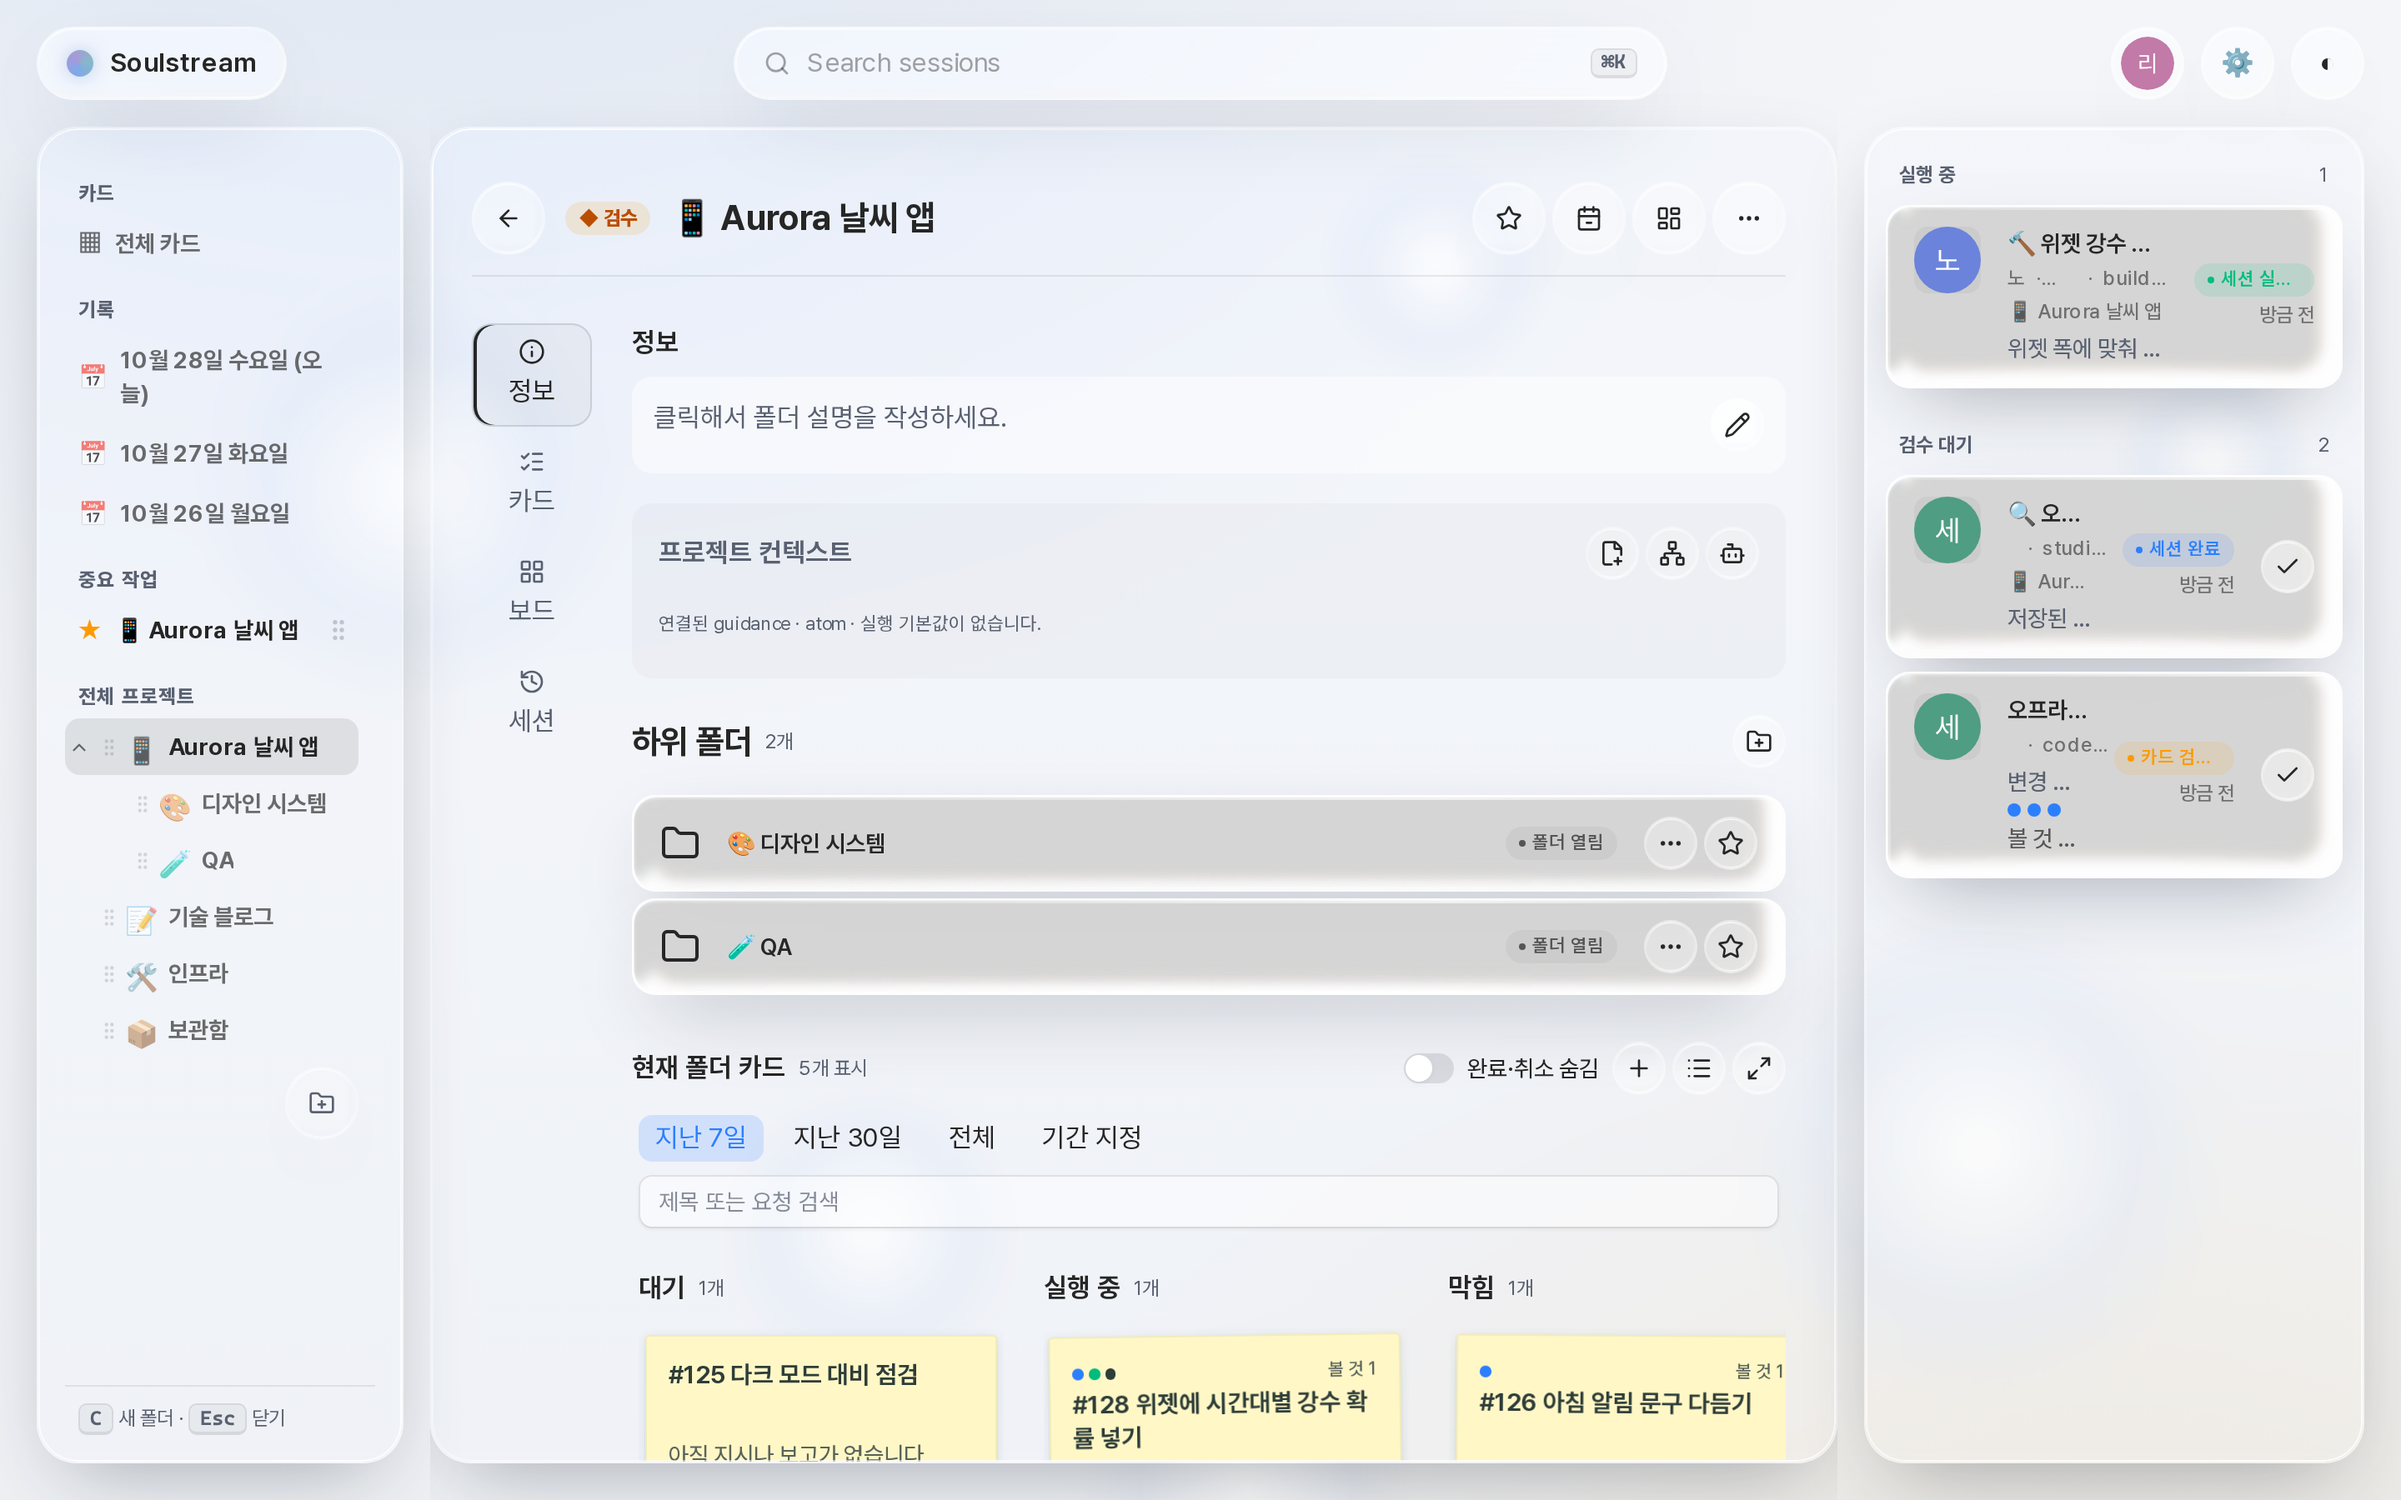
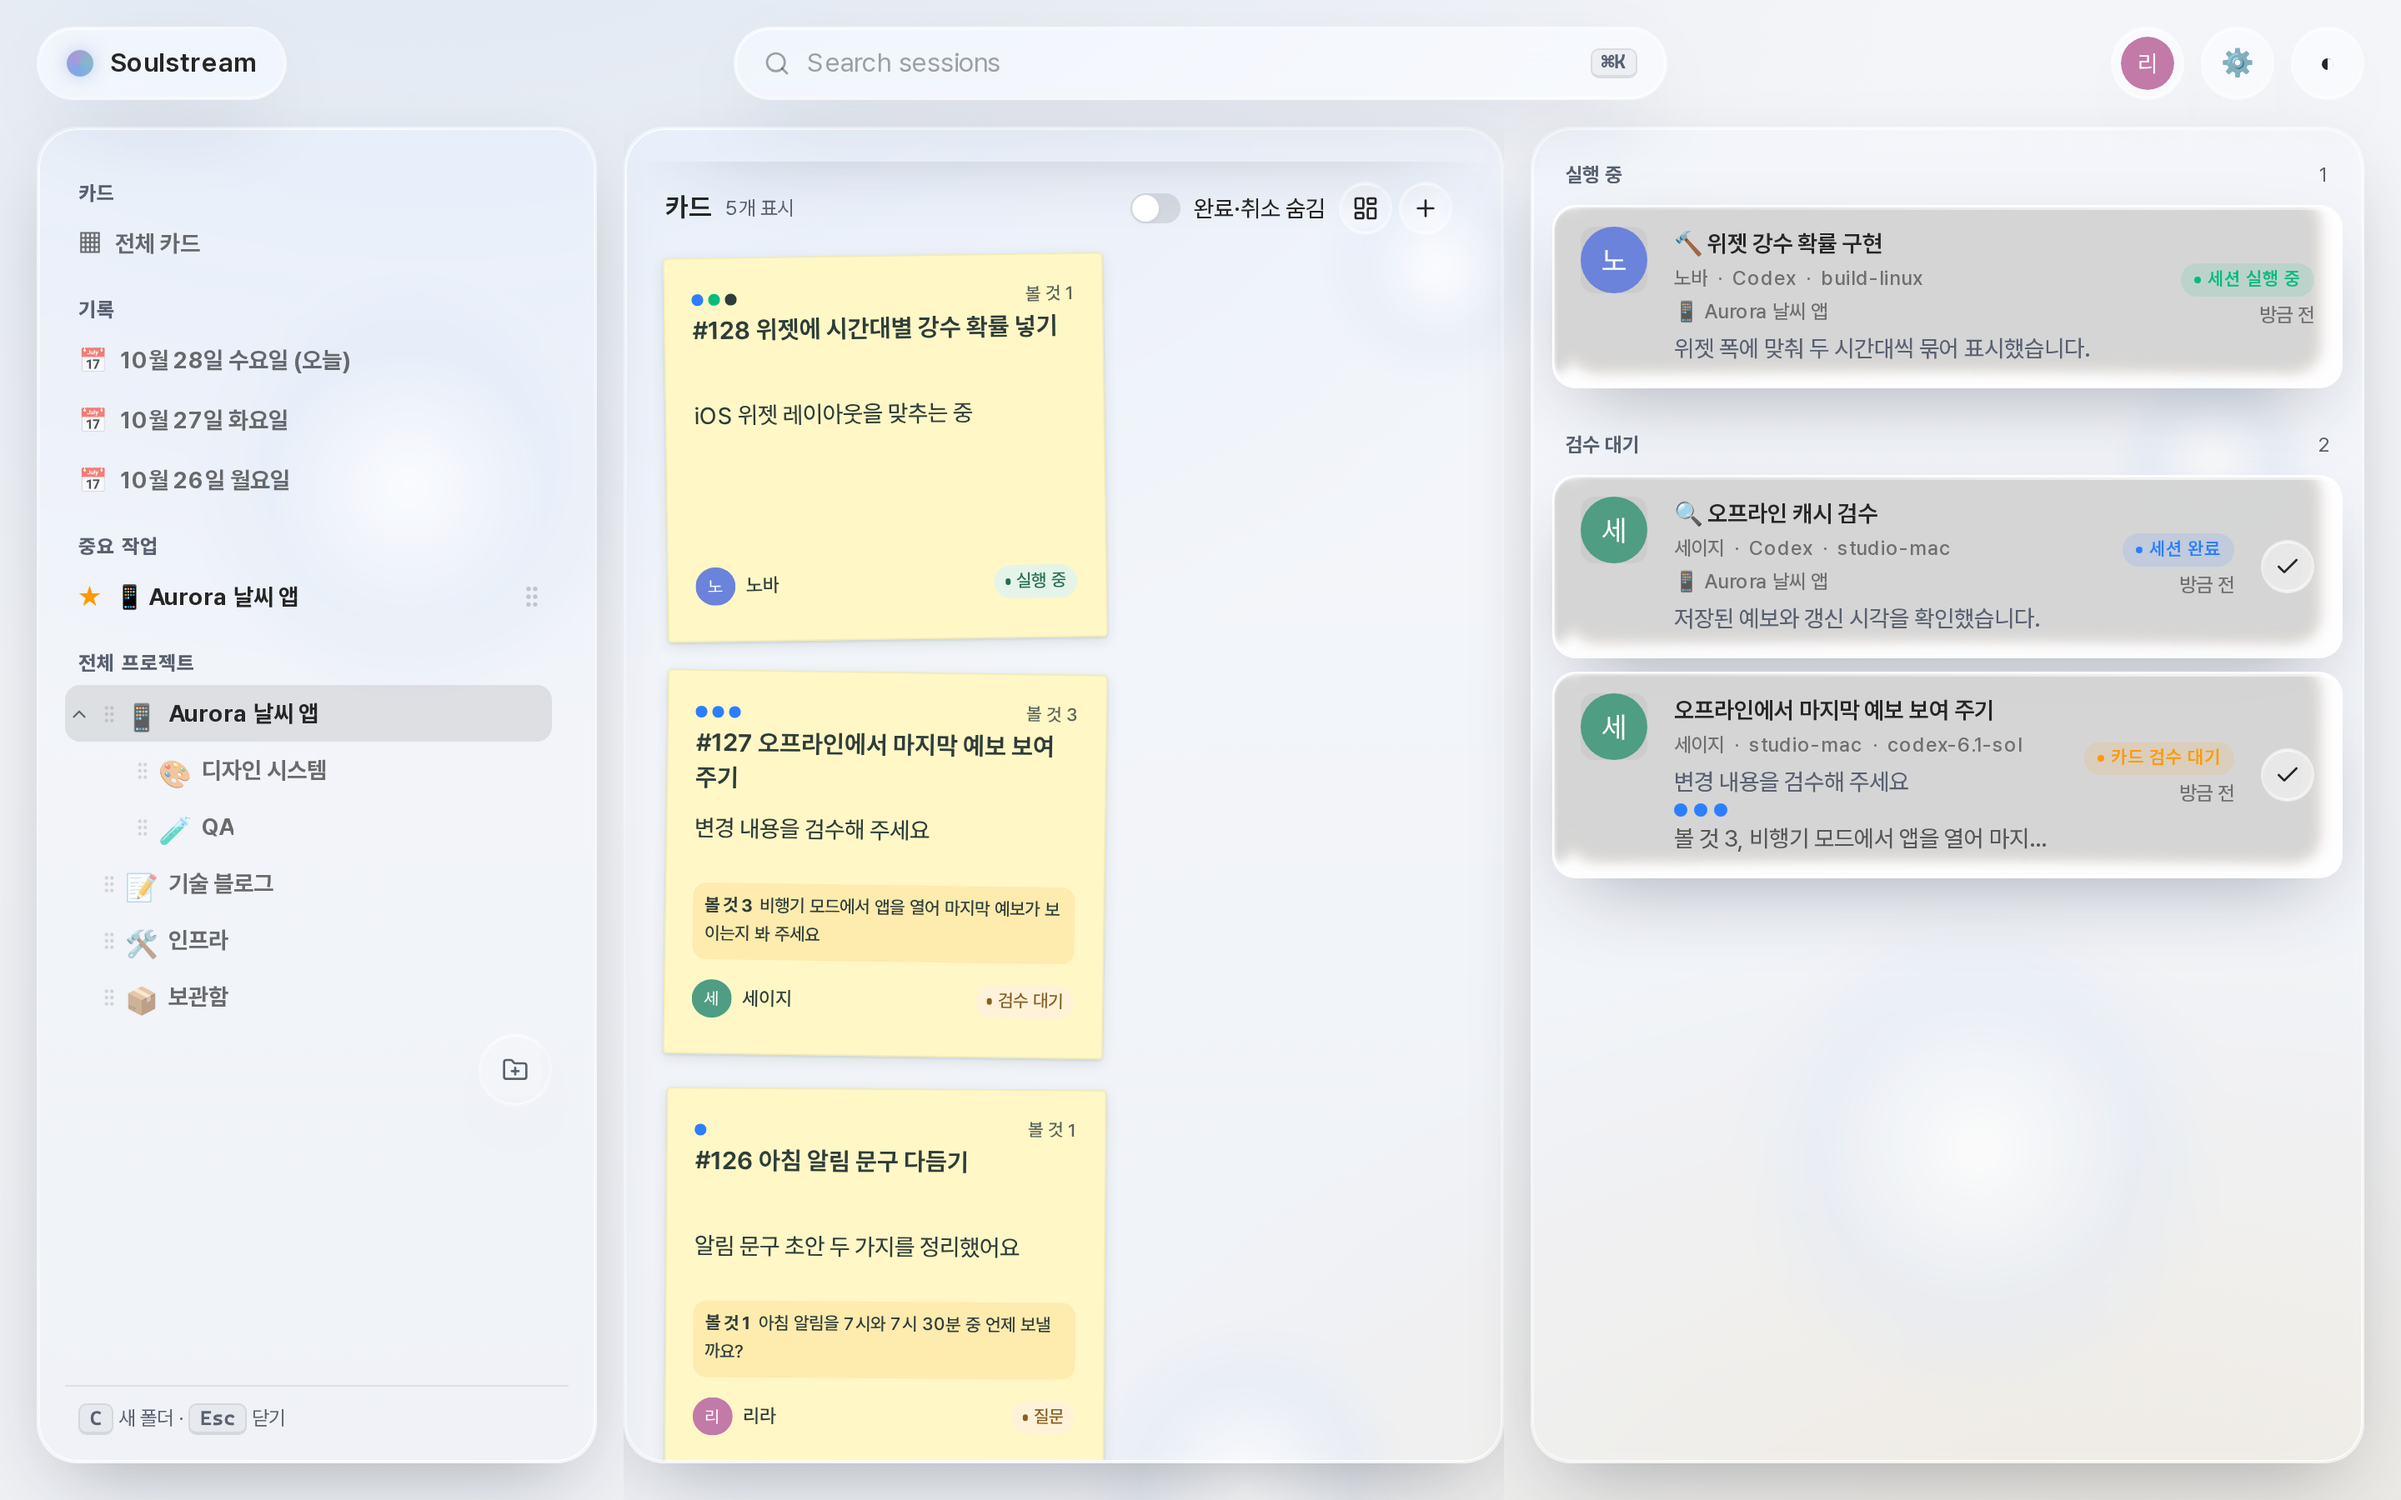
docs: recapture dashboard and card detail after review fixes
Keep default panel widths for the dashboard and scroll the normal card
view to the cards section; the selected folder stays visible in the
tree. Recapture card detail after the tool-result ordering fix.

diff --git a/unified-dashboard/e2e/readme-demo/readme-demo.capture.ts b/unified-dashboard/e2e/readme-demo/readme-demo.capture.ts
@@ -123,26 +123,24 @@ async function capturePersistentSession(browser: Browser) {
 }
 
 test("대시보드에 폴더 트리와 다섯 상태의 카드를 캡처한다", async ({ page }) => {
+  // 기본 패널 폭과 일반 보기에서 가운데 패널을 카드 섹션 머리까지 내린다.
+  // 선택된 폴더는 왼쪽 트리의 강조로 보이므로 폴더 머리보다 카드 내용을 우선한다(위임자 결정).
   const { pageErrors } = await prepare(page, "dashboard", `/?folder=${readmeDemoIds.folderId}`);
   const cards = page.getByTestId("v3-planner-scroll").getByTestId("v3-folder-cards-section");
   await page.getByRole("button", { name: "📱 Aurora 날씨 앱 펼치기", exact: true }).click();
-  // Native minimum side-panel widths leave the largest available main panel.
-  for (const [testId, targetX] of [["v3-session-panel-resize-handle", 1420], ["v3-navigation-resize-handle", 20]] as const) {
-    const box = await page.getByTestId(testId).boundingBox();
-    if (!box) throw new Error(`resize handle missing: ${testId}`);
-    await page.mouse.move(box.x + box.width / 2, box.y + box.height / 2);
-    await page.mouse.down();
-    await page.mouse.move(targetX, box.y + box.height / 2, { steps: 6 });
-    await page.mouse.up();
-  }
+  await cards.getByRole("button", { name: "일반 보기", exact: true }).click();
   await cards.getByRole("switch", { name: "완료·취소 숨김" }).click();
   await expect(cards.locator(".v3-postit-card")).toHaveCount(5);
   await expect(cards).toContainText("위젯에 시간대별 강수 확률 넣기");
   await expect(cards).toContainText("오프라인에서 마지막 예보 보여 주기");
-  console.log(`[readme-demo:dashboard-layout] ${JSON.stringify(await cards.evaluate(section => [...section.querySelectorAll<HTMLElement>(".v3-postit-card")].map(card => ({ id: card.dataset.cardId, ...card.getBoundingClientRect().toJSON() }))))}`);
-  await page.getByTestId("v3-planner-scroll").evaluate(element => { element.scrollTop = 0; });
-  await expect(page.getByRole("button", { name: "폴더 제목 편집", exact: true })).toBeInViewport({ ratio: 1 });
-  console.log("[readme-demo:dashboard-choice] 기본 compact 보드, 양쪽 패널을 제품 최소 폭으로 조절, 가운데 스크롤 0. 다섯 장 동시 노출 대신 폴더 머리 유지.");
+  await page.getByTestId("v3-planner-scroll").evaluate((scroller) => {
+    const section = scroller.querySelector<HTMLElement>('[data-testid="v3-folder-cards-section"]');
+    if (!section) throw new Error("cards section missing");
+    scroller.scrollTop += section.getBoundingClientRect().top - scroller.getBoundingClientRect().top - 12;
+  });
+  await page.waitForTimeout(700);
+  const [firstCardId] = Object.values(readmeDemoIds.cardIds);
+  await expect(cards.locator(`[data-card-id="${firstCardId}"] .v3-postit-title`)).toBeInViewport();
   await expect(page.getByText("📱 Aurora 날씨 앱", { exact: true }).first()).toBeVisible();
   await expectSettled(page);
   await mkdir(screenshots, { recursive: true });
